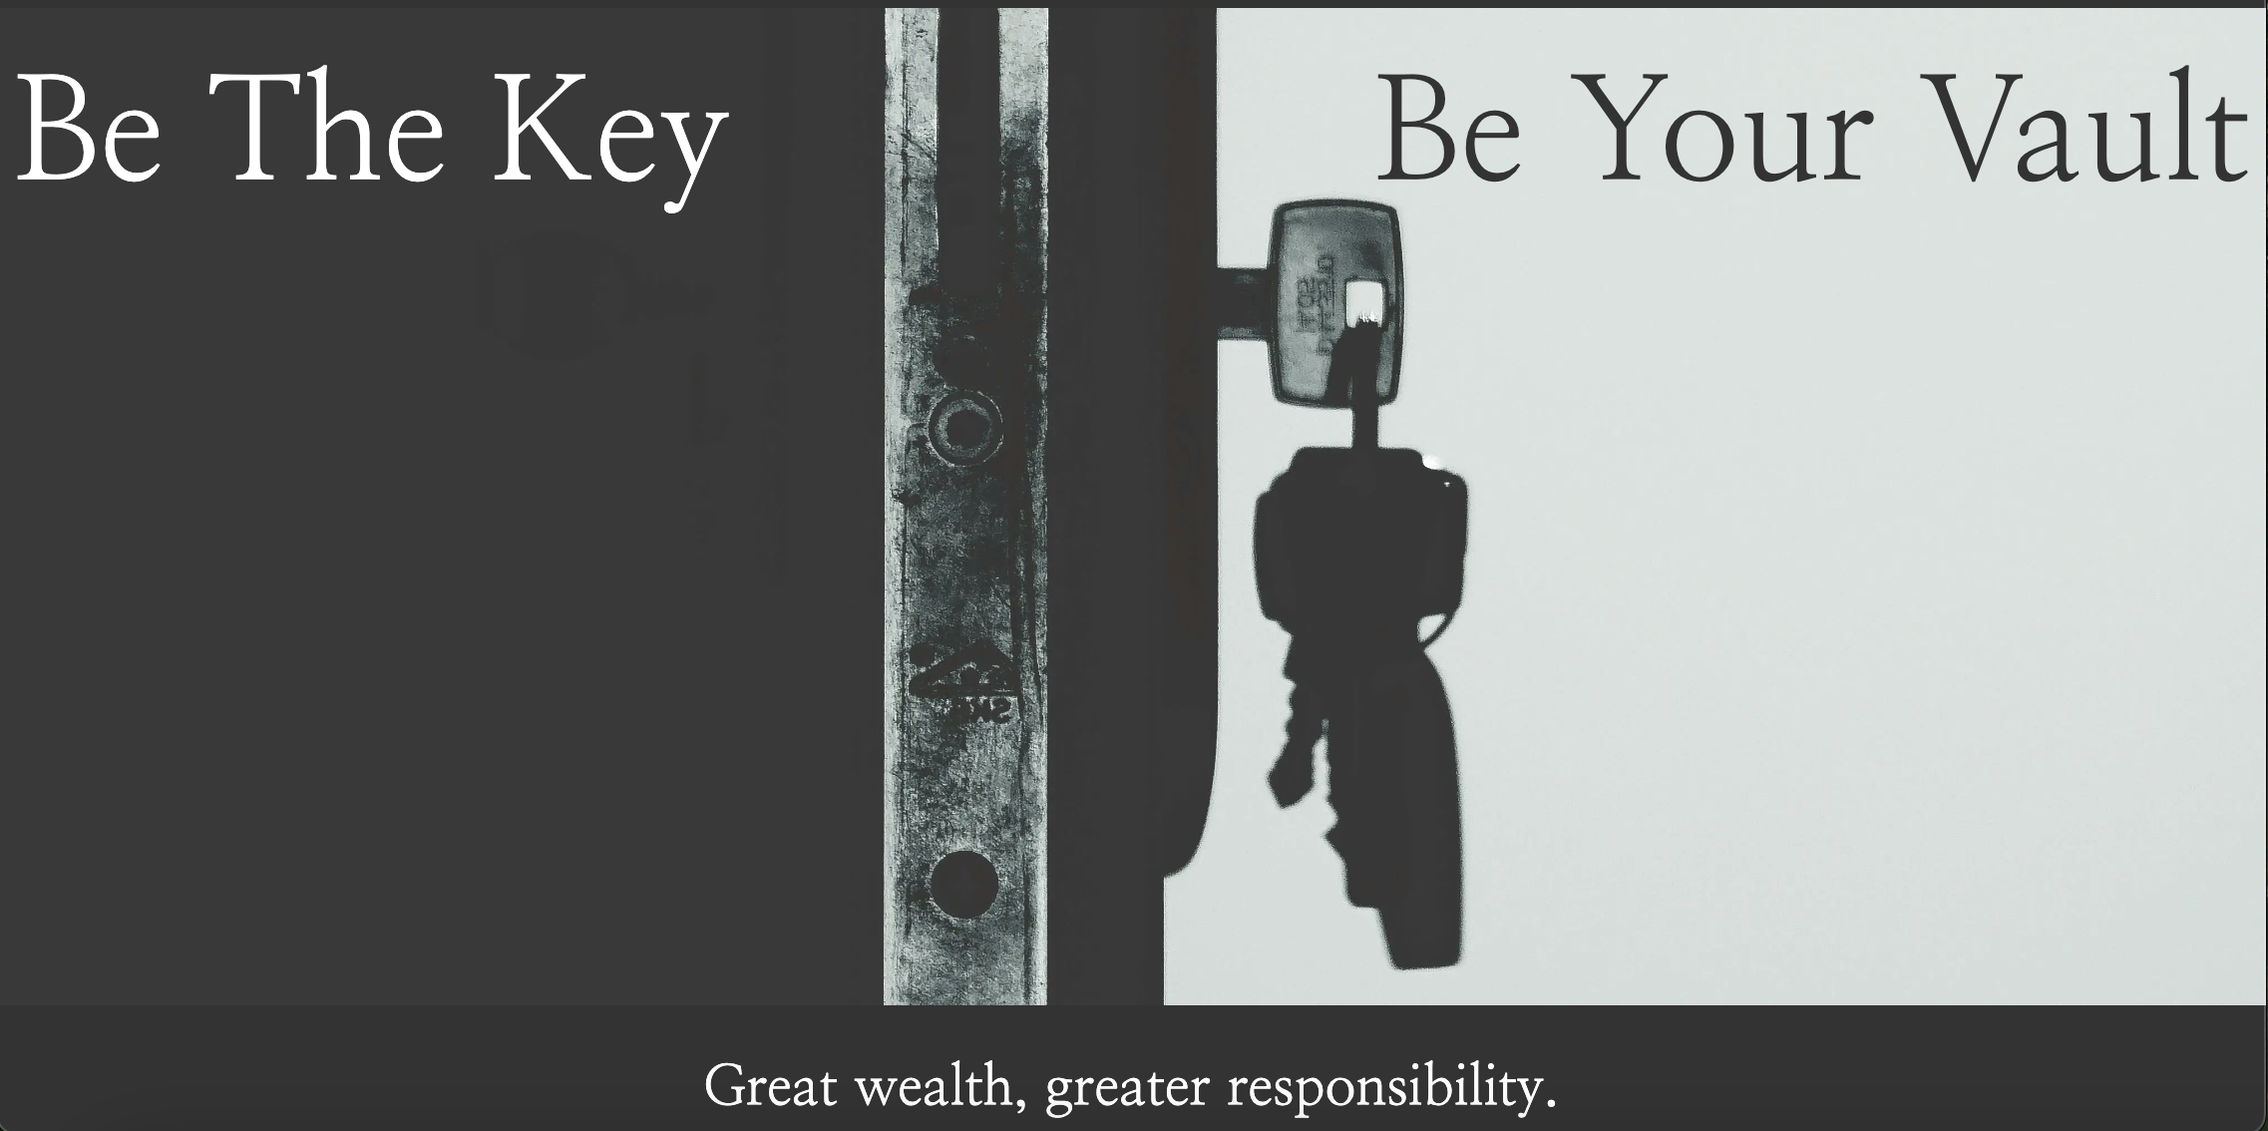
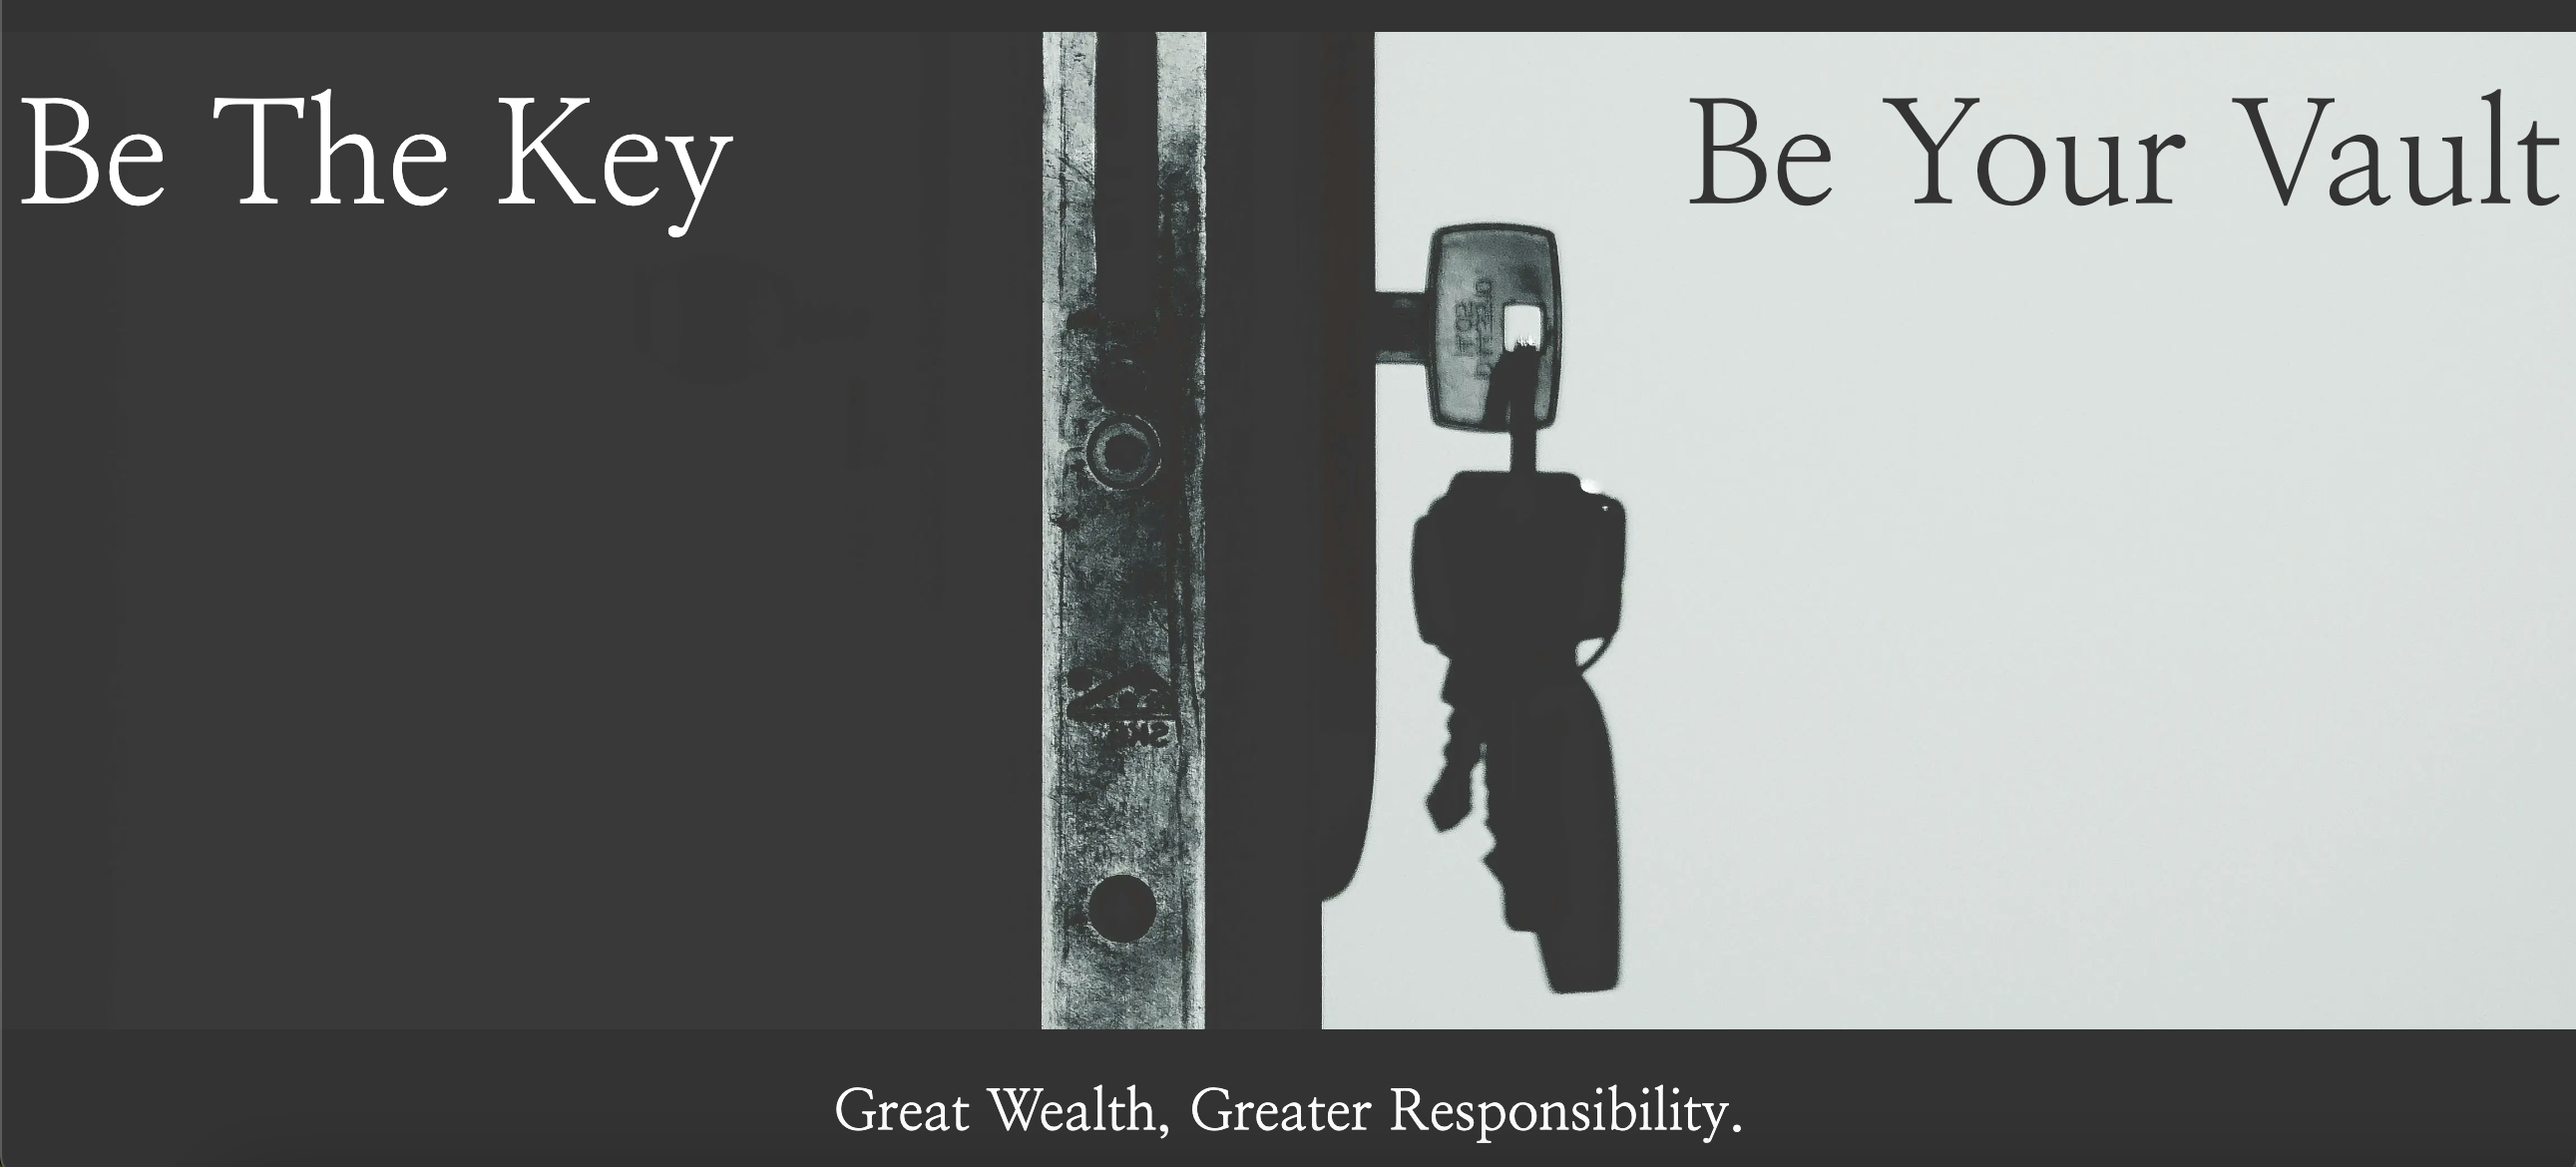
Add img to readme/add missing info to trans,history

diff --git a/my_transactions/templates/transactions.html b/my_transactions/templates/transactions.html
@@ -2,16 +2,20 @@
 {%load static %}
 {% block content %}
 
-<!-- IF account suspended this message will appear -->
+<!-- If account suspended this message will appear -->
 {% if profile.suspended%}
 <div id="transactions-main">
   <div class="container">
     <div class="row">
       <div class="col-12 text-center mx-auto">
-<p>Your account is suspended. </p>
-</div>
-</div>
-</div>
+        <p>Your account has been suspended. You cannot access your transactions or perform any actions at this time.</p>
+        <p>To reactivate your account, please validate your private key to unlock it.</p>
+        <div class="col">
+          <a href="{% url 'validate_key' %}" class="btn btn-secondary ">Validate Key</a>
+        </div>
+      </div>
+    </div>
+  </div>
 </div>
 {% else %}
 <!-- If private key validated from profile.html the user will have access to transaction details -->
@@ -27,17 +31,18 @@
         </div>
         <div class="container text-center">
           <div class="row">
-            <div class="col gap-2 d-lg-flex d-xl-flex p-2 d-xxl-flex d-md-flex flex-row justify-content-start align-items-start flex-wrap align-content-center">
+            <div
+              class="col gap-2 d-lg-flex d-xl-flex p-2 d-xxl-flex d-md-flex flex-row justify-content-start align-items-start flex-wrap align-content-center">
               <form id="withdraw-form" method="POST" action="{% url 'withdraw_fund' %}">
                 {% csrf_token %}
                 <button type="submit" class="btn-secondary button shadow mt-3 mb-3 btn">Withdraw</button>
                 <br>
-                  {% if error %}
+                {% if error %}
                 <p>{{error}}</p>
-                  {% endif %}
+                {% endif %}
                 <div class="col-auto">
-                <input type="number" name="amount" id="amount" class="user-container rounded-3 shadow"
-                  placeholder="Amount in USD" required>
+                  <input type="number" name="amount" id="amount" class="user-container rounded-3 shadow"
+                    placeholder="Amount in USD" required>
                 </div>
               </form>
               <div class="col">
@@ -56,7 +61,7 @@
                 <a href="{% url 'transactions_history' %}" class="btn btn-secondary button shadow mt-3 mb-3">History</a>
               </div>
             </div>
-           
+
           </div>
         </div>
       </div>

diff --git a/my_transactions/templates/transactions_history.html b/my_transactions/templates/transactions_history.html
@@ -94,14 +94,14 @@
                   <p>Note by Sender: {{transaction.transaction_note}}</p>
                   <p>Sent by: {{ transaction.sending_address }}</p>
                   <p>Receiving Address: {{ transaction.receiving_address }}</p>
-                  <p>Amount: {{ transaction.amount }}</p>
-                  <p>{{ transaction.date }}</p>
+                  <p>Amount: {{ transaction.amount }} USD</p>
+                  <p>Transaction Date{{ transaction.date }}</p>
                 </div>
                 {% else %}
                 <div class="modal-body">
                   <p>Transaction Type: {{ transaction.type }}</p>
                   <p>Transaction Status: {{ transaction.status }}</p>
-                  <p>Amount: {{ transaction.amount }}USD</p>
+                  <p>Amount: {{ transaction.amount }} USD</p>
                   <p>Transaction Date: {{ transaction.date }}</p>
                 </div>
                 {% endif %}

diff --git a/templates/base.html b/templates/base.html
@@ -89,7 +89,7 @@
   {% if request.path == '/' %}
   <footer>
     <div class="text-center">
-      <h3>Great wealth, greater responsibility.</h3>
+      <h3>Great Wealth, Greater Responsibility.</h3>
     </div>
   </footer>
   {% endif %}

diff --git a/README.md b/README.md
@@ -42,6 +42,7 @@ The ERD represents the database structure for the application. Due to the data b
 - #E1F4F3 (Soft Aqua): This soft, refreshing color adds a subtle touch of warmth and energy to the interface. It symbolizes trust and innovation, complementing the darker and lighter tones to create a cohesive, elegant, and approachable design.
 - #706C61: This muted, earthy tone adds depth and warmth to the overall design, creating a subtle contrast against the darker #333333 and the bright #FFFFFF. Its neutral yet sophisticated appearance evokes stability, reliability, and professionalism. It serves as a grounding element, tying the color palette together and softening the overall visual experience.
 This color palette was chosen to achieve a clean, minimalistic, and modern aesthetic, emphasizing usability and professionalism.
+- #00FFFF: color was used on the V letter on the navbar due to contrast errors in Wave.
 
 ### Typography
 
@@ -58,45 +59,149 @@ Navbar is user logged out/not registered
 
 #### Home
 
+The home page of MyVault features a sleek design to leave a lasting impression on first-time visitors. At the top, the navigation bar provides easy access to key sections of the app. The background showcases a captivating image of a door with a key, symbolizing security and empowerment. The slogan "Be the Key" is prominently displayed on the right, while "Be Your Vault" appears on the left, reinforcing the app’s theme of personal responsibility and financial security.
+
+At the bottom, the footer includes the tagline "Great Wealth, Greater Responsibility," emphasizing MyVault's focus on managing and safeguarding your finances responsibly.
+
 ![Backgorund](/docs/screenshots/home-page-bg.png)
 
 #### FAQ
 
+The FAQ page provides answers to the 10 most frequently asked questions about MyVault.
+![FAQ](/docs/screenshots/faq.png)
+Users can click on a question to expand and view its detailed answer. 
+![faq-example](/docs/screenshots/faq-question.png)
+If users don’t find the information they need or require further assistance, a button at the bottom of the page directs them to the Ask page, where they can submit their queries for personalized support.
+![faq-btn](/docs/screenshots/faq-btn-ask.png)
+
 #### Ask
 
+The Ask page in MyVault leverages the Gemini API to provide instant answers to user queries. To streamline the process, the page includes predefined prompts to guide users in framing their questions. All submitted questions are logged and stored, ensuring they are accessible for review and management via the admin panel.
 ![Ask page](/docs/screenshots/ask-page.png)
 
 #### Profile
 
+The Profile page is the first destination for users after registration or login. For new users, their private key will be displayed on this page with a clear warning to store it securely, as it cannot be recovered later. 
+![Private-key](/docs/screenshots/secret-private-key.png)
+The page also displays user details such as username and email address. By default, features like email notifications and location tracking are enabled, but users can conveniently manage these settings from the Edit Profile page.
+The Profile page also provides users with essential account management options. Users can:
+- Delete their profile if they wish to close their account permanently.
+- Reset their password for enhanced security.
+- Validate their private key, a mandatory step to access the Transactions section.
+
+
+Every time a user logs in, private key validation is required to ensure secure access to transaction-related features. Without validation, transactions will remain inaccessible.
 ![Profile](/docs/screenshots/profile.png)
-Account suspended
+If an account is suspended by the user or admin, it can only be unlocked using the private key. While the account is in a suspended state, all other buttons and functionalities on the Profile page are disabled, ensuring that no changes or actions can be performed until the account is reactivated.
 ![Suspended](/docs/screenshots/suspended-account.png)
 
 #### Update Profile
-Update profile
+
+The Edit Profile page allows users to manage and update their account details conveniently. Users can:
+
+ - Change their email address.
+ - Add their first name and last name.
+ - Enable or disable email notifications and location tracking.
+ - Suspend their account if needed.
+
+
+These options ensure users have full control over their account preferences and settings.
 ![Update profile](/docs/screenshots/update-profile.png)
 
-#### Validate private key/Unlock accounr
-Validate secret private key
+#### Validate private key/Unlock account
+The Validate Key and Unlock Account functionalities in MyVault use the same underlying logic for security and access control:
+
+- Validate Key: When the user clicks the Validate Key button, it ensures that the private key is correctly validated. Once validated, the user gains access to sensitive sections, such as the Transactions and Dashboard pages, which require this validation for security.
+
+- Unlock Account: The Unlock Account functionality works in a similar way. It removes the suspension from the account by validating the user's private key, restoring access to all features and functionalities that were previously disabled due to the suspension.
+
+
+In both cases, the user must provide the private key to proceed. This ensures that only the rightful account holder can access and manage their sensitive information.
 ![Validate PK](/docs/screenshots/validate-private-key.png)
 
 #### Dashboard
-
-Pie chart
+The Dashboard provides users with a comprehensive overview of their financial activity, featuring three insightful charts.
+The first pie chart visualizes the distribution of the user’s transactions, breaking them down by type—Withdrawals, Deposits, Sent, and Received. It helps users understand their transaction habits at a glance.
 ![Pie](/docs/screenshots/dashboard-chart-one.png)
-Bar chart
+The bar chart displays the total number of transactions for the current month. This gives users a clear view of their activity over time, helping them track trends and patterns in their transactions.
 ![Bar](/docs/screenshots/dashboard-chart-2.png)
-
+The third chart shows the total sum of inflows (deposits and money received) versus outflows (withdrawals and money sent) for the current month. It provides a quick overview of the user's financial balance for the month, highlighting any surplus or deficit.
+![pie chart](/docs/screenshots/dashboard-chart-3.png)
 #### Transactions
+The Transactions page is designed to ensure that sensitive financial data is protected.
+Private Key Validation: After login, if the user's private key is not validated, the transaction page will remain empty, preventing access to any sensitive information.
+![Transaction no validation](/docs/screenshots/transaction-no-validation.png)
+If the account is suspended, a clear and informative message displayed to the user, explaining the situation and the steps they need to take.
+![Transaction suspension](/docs/screenshots/transaction-suspended.png)
+Access After Validation: Once the private key is validated, the user gains full access to the transaction features:
+- Balance: The user's current balance will be displayed.
+- Sending and Receiving Addresses: The unique addresses for sending and receiving money will be shown.
+- Action Buttons: Users will have the ability to perform actions such as:
+   - Withdraw funds.
+   - Top up their balance.
+   - Send money to other users.
+- Transaction History: Users can check their transaction history, giving them insights into past deposits, withdrawals, and transfers.
+
 
 ![Transactions](/docs/screenshots/transactions.png)
 
 #### Top up
 
+For the Top Up process, users can follow these steps:
+
+- Enter Amount: The user needs to enter the desired top-up amount on the Transactions page.
+- Click on Top Up Button: After entering the amount, the user clicks the Top Up button to proceed.
+- Redirect to Checkout Page: Upon clicking the top-up button, the user is redirected to the Checkout page.
+- Enter Card and User Details: On the Checkout page, the user will need to enter their card details and user information to complete the transaction.
+- Stripe Testnet: The payment system is powered by Stripe, but only the testnet environment is used, meaning no real payments will be processed. This allows users to simulate transactions for testing purposes without any actual financial transfer.
+
+
+This process ensures that users can top up their accounts securely while using Stripe's test environment for validation and testing purposes.
+If the payment is successful, a confirmation message will be displayed to the user.<br>
+![topup](/docs/screenshots/checkout.gif)
 #### Send payment
+
+The Send Payment form in MyVault includes validation to ensure secure and accurate transactions. Here’s how it works:
+
+- Input Fields:
+
+  - Amount: The user specifies the amount they wish to send.
+  - Optional Note: An optional note can be added (e.g., "For dinner").
+  - Receiver's Unique Address: The user enters the recipient's unique address.
+- Validation Checks:
+
+  - Receiver Address: If the address is invalid or does not exist, an error message will appear.
+  - Sufficient Balance: If the entered amount exceeds the user's current balance, an error message will be displayed.
+
+If all validations are passed, the payment will be processed, and the user will be redirected to the Transactions page.
+This ensures that users can only send valid payments within their account limits, enhancing security and preventing errors.
+
+![form](/docs/screenshots/send-payment.gif)
 
 #### Transactions history
 
+The Transaction History page provides a user-friendly interface for reviewing financial activities, featuring pagination and advanced filtering options:
+
+- Users can see all their Completed and Failed transactions.
+- Each entry includes details such as the transaction type (e.g., Deposit, Withdraw, Sent, Received), amount, date, and status.
+- 6 records per page, allowing users to navigate through their history without overwhelming the interface.
+![Transactions history](/docs/screenshots/transactions-history.png)
+- Users can move between pages using Next and Previous buttons or jump to specific pages.
+- Users can filter transactions based on a specified range of amounts.
+- Transactions can be filtered within a specific date range to focus on relevant periods.
+- Users can refine results by selecting a specific type of transaction:
+  - Withdraw
+  - Deposit
+  - Sent
+  - Received
+
+![filter](/docs/screenshots/history-filter.png)
+When viewing details of a Sent transaction, the sender's unique address (only visible to the sender).
+![sender view](/docs/screenshots/sent-history.png)
+When viewing details of a Received transaction, the receiver can see the name of the sender for clarity.
+![receiver view](/docs/screenshots/received-history.png)
+The Pending status is part of the transaction model but will only be implemented and visible after integrating the testnet environment. This will allow users to track transactions that are awaiting confirmation.
+This design ensures transparency and keeps users informed about the status of their financial activities, with room for future expansion to include pending transactions once the testnet is fully utilized.
 #### Future Implementations
 
 ## Technologies, Languages, and Programs used
